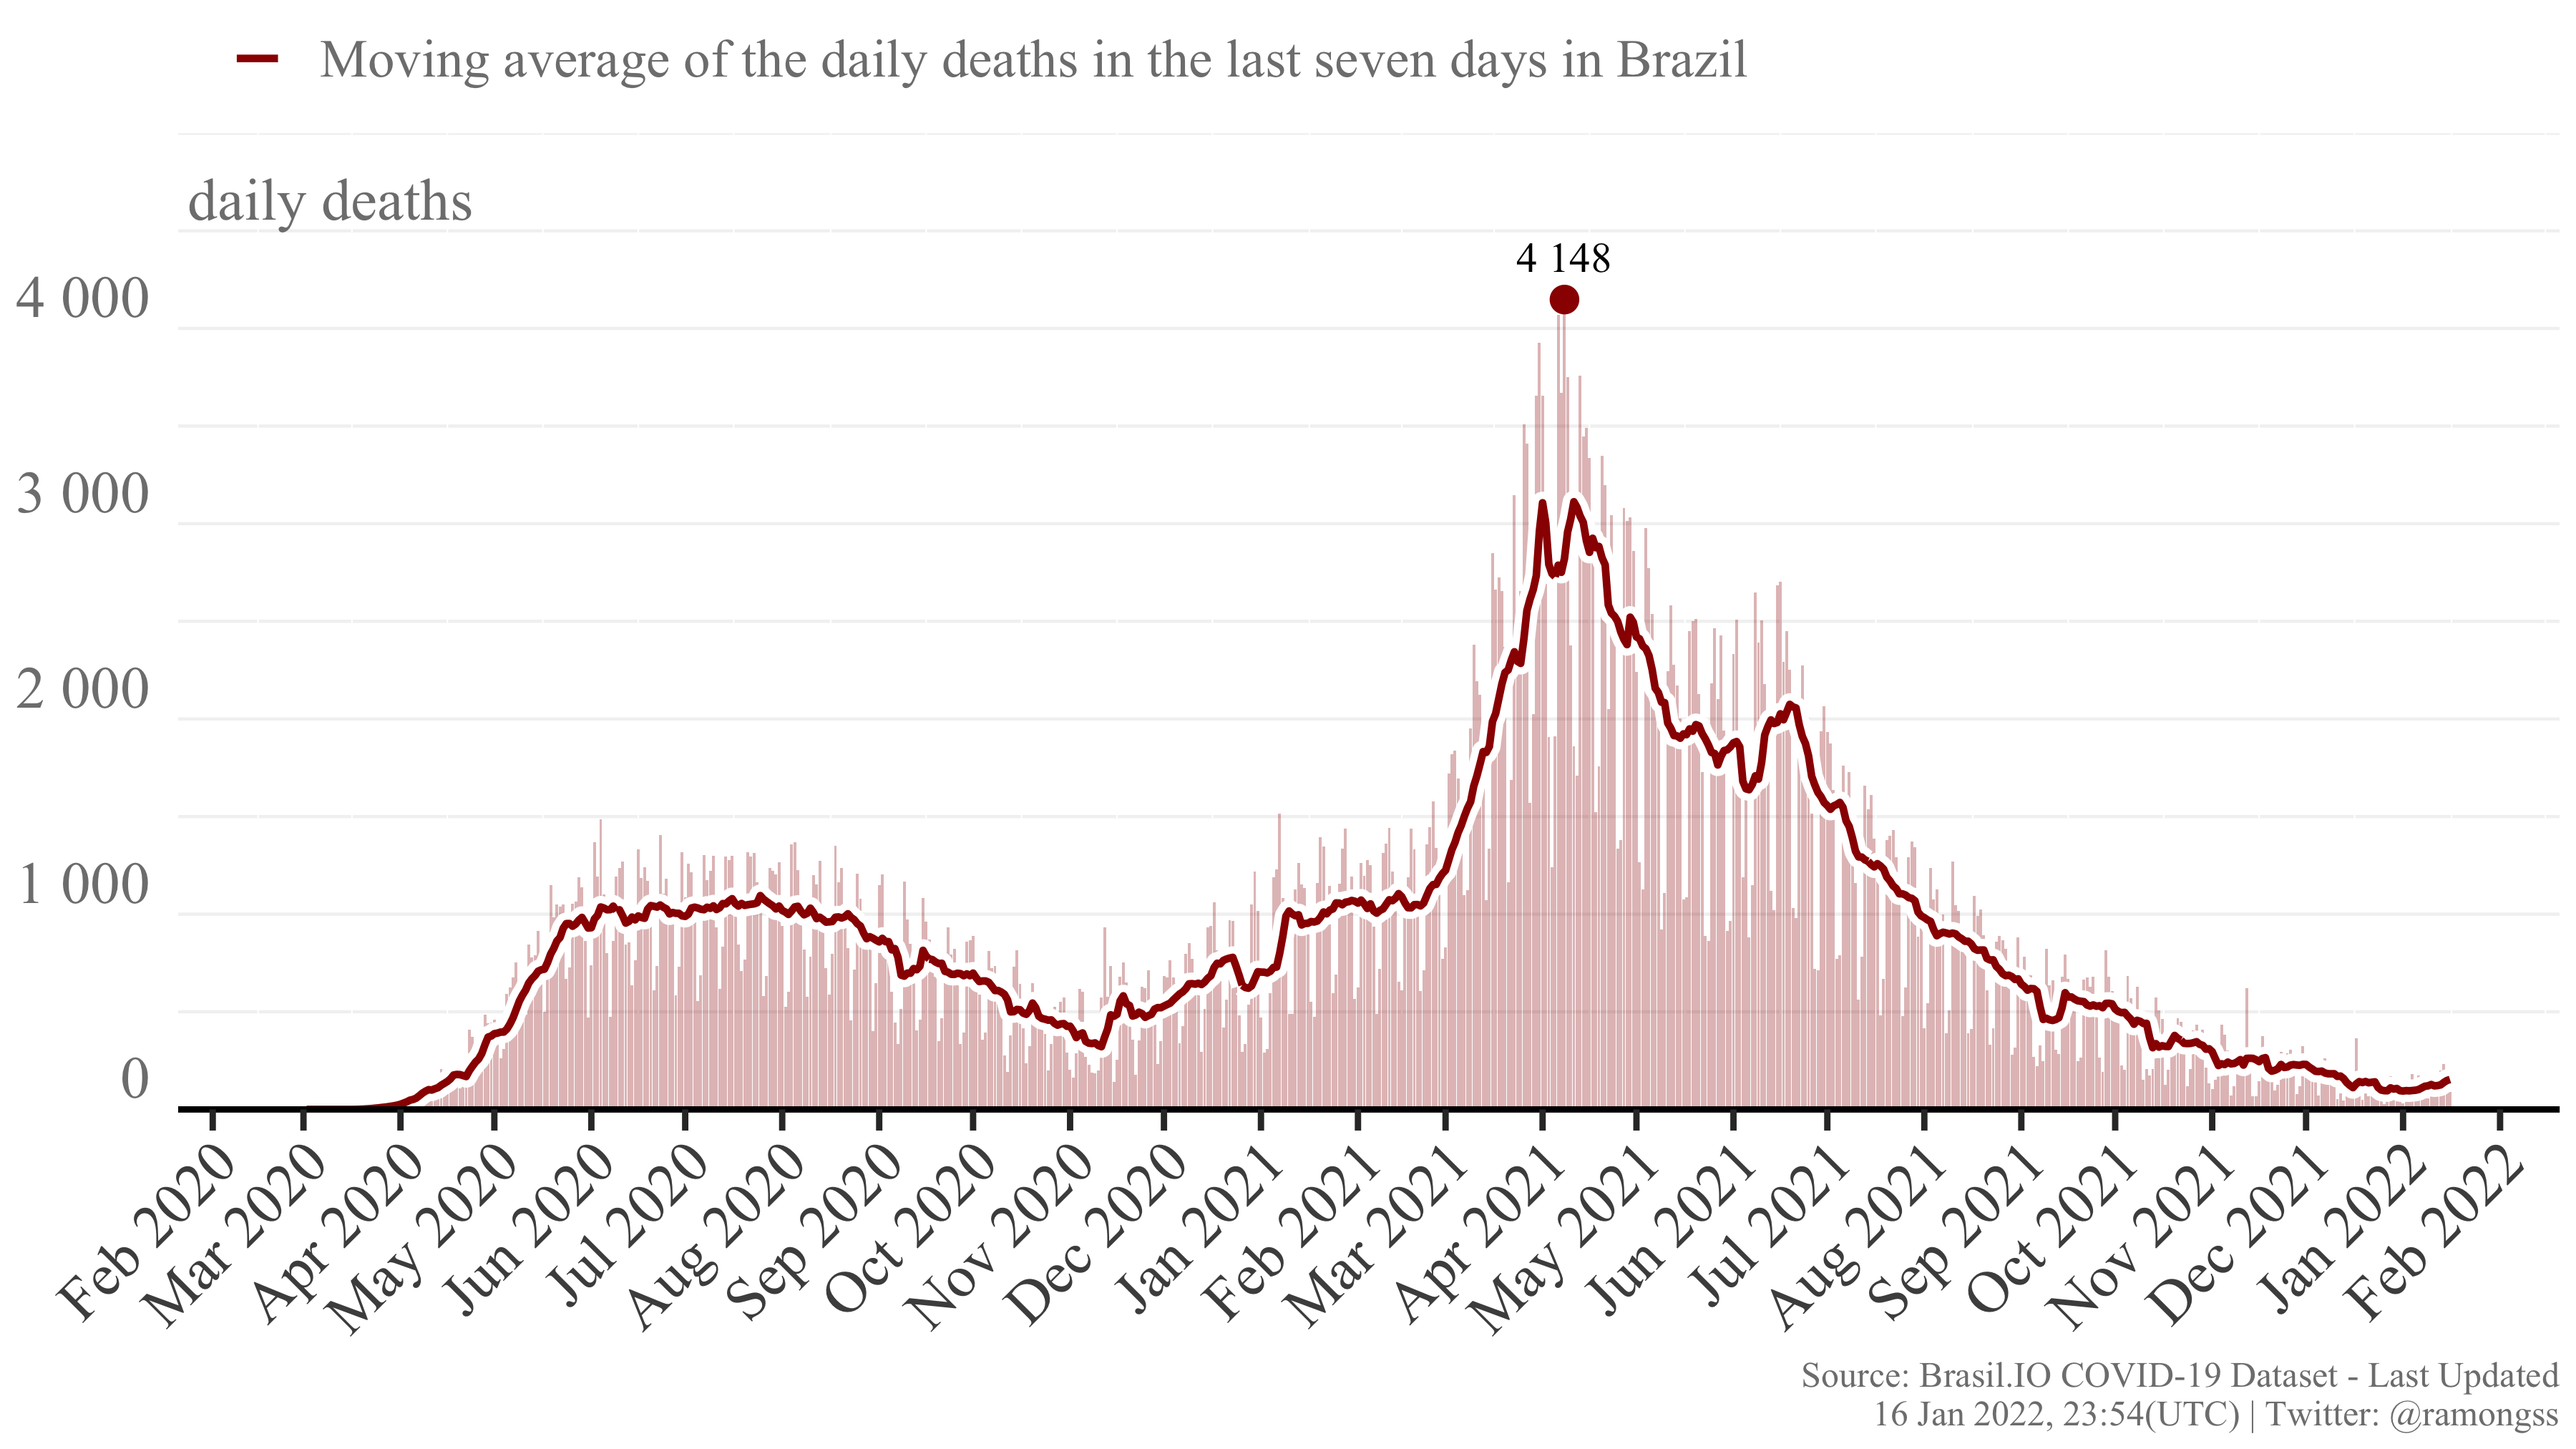
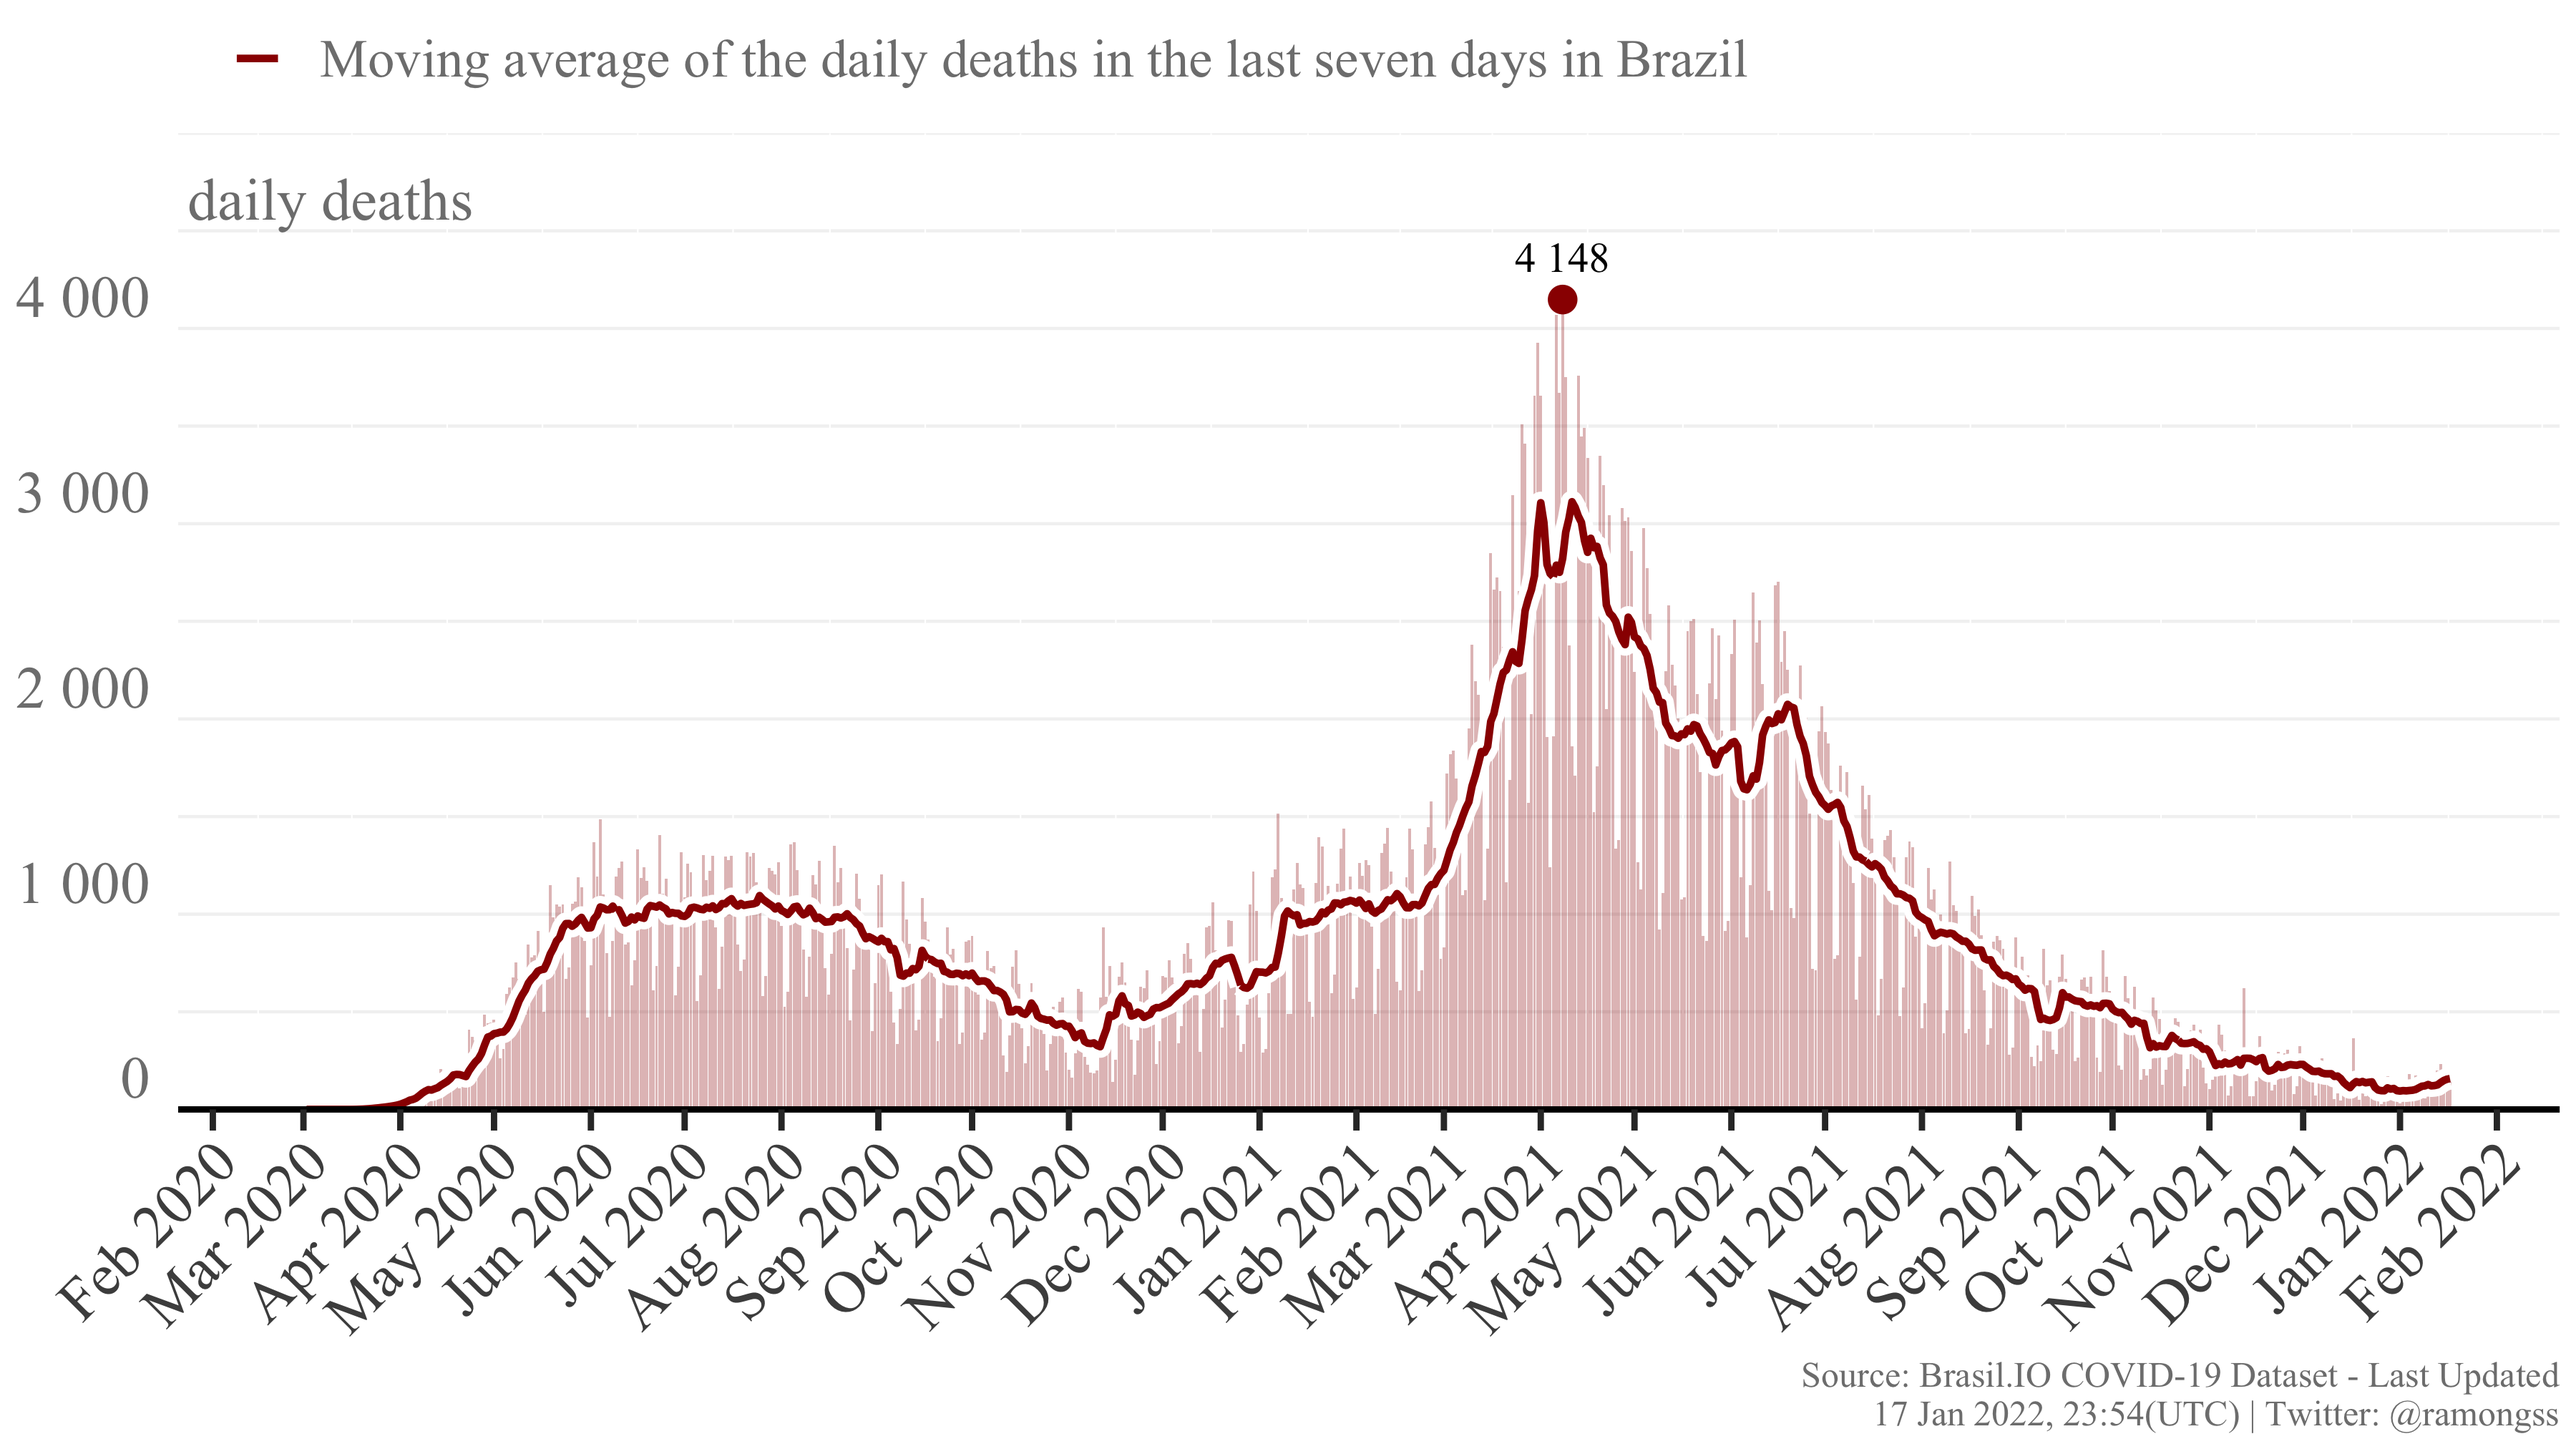
Re-build README.Rmd

diff --git a/README.md b/README.md
@@ -27,8 +27,8 @@ download_brasilio_table <- function(dataset = "covid19", table_name){
 
 ## COVID-19 Confirmed cases
 
-Currently, Brazil has a total of **23,015,128** confirmed cases at **16
-Jan, 2022**, with **32,399** new confirmed cases. The daily maximum
+Currently, Brazil has a total of **23,089,509** confirmed cases at **17
+Jan, 2022**, with **72,315** new confirmed cases. The daily maximum
 incidence was **124,878** confirmed cases at **18 Sep, 2021**. Here
 follows the Figure showing the confirmed case incidence as the bars, and
 the line as the moving average of the last 7 days.
@@ -37,11 +37,11 @@ the line as the moving average of the last 7 days.
 
 ## COVID-19 Deaths
 
-Currently, Brazil has a total of **621,327** deaths at **16 Jan, 2022**,
-with **91** new deaths. The daily maximum deaths incidence was **4,148**
-deaths at **08 Apr, 2021**. Here follows the Figure showing the deaths
-incidence as the bars, and the line as the moving average of the last 7
-days.
+Currently, Brazil has a total of **621,478** deaths at **17 Jan, 2022**,
+with **141** new deaths. The daily maximum deaths incidence was
+**4,148** deaths at **08 Apr, 2021**. Here follows the Figure showing
+the deaths incidence as the bars, and the line as the moving average of
+the last 7 days.
 
 ![COVID-19 Deaths](figures/deaths.png)
 
@@ -49,4 +49,4 @@ days.
 
 This page is daily updated automatically using Github Actions.
 
-*Last update: 16 Jan 2022, 23:54 (UTC).*
+*Last update: 17 Jan 2022, 23:54 (UTC).*
